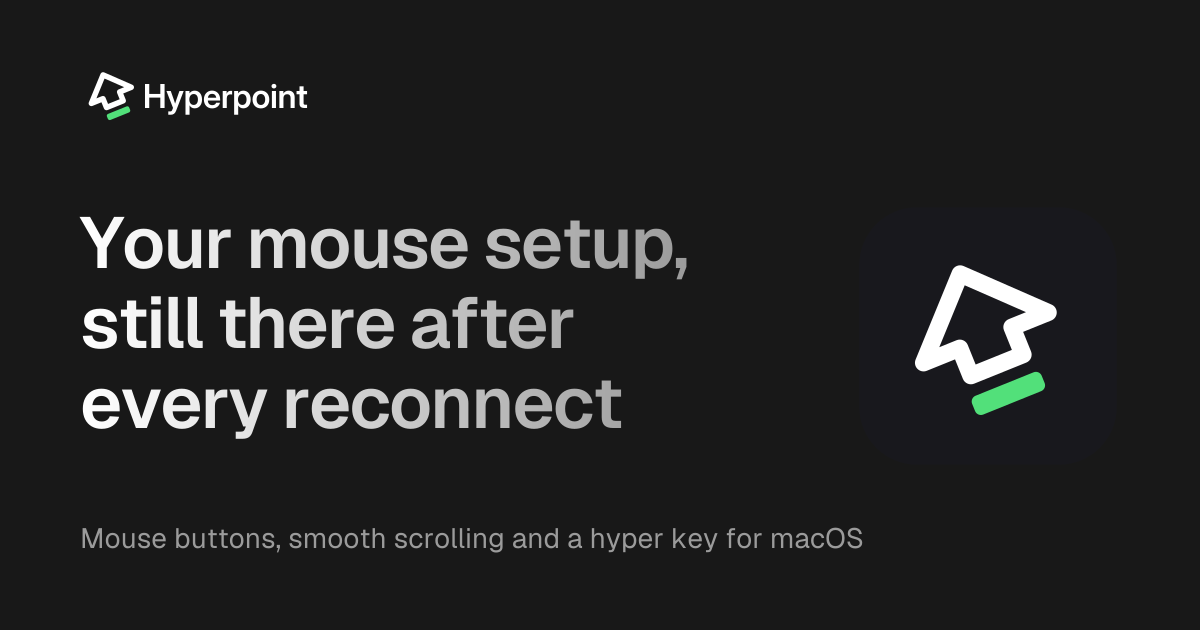
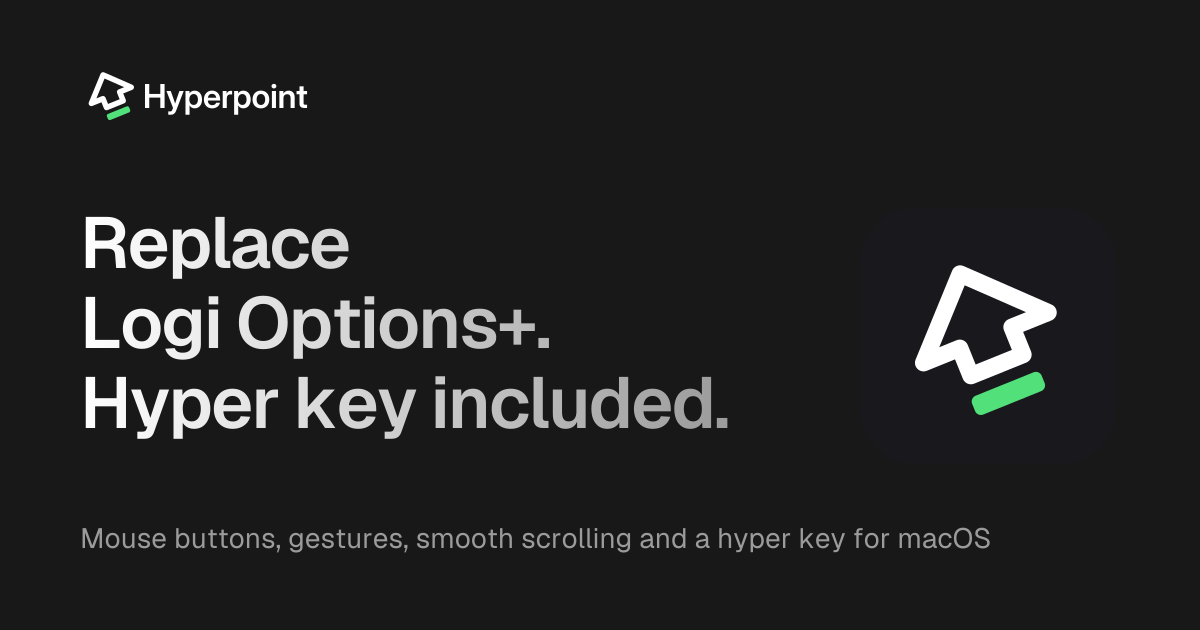
docs: pitch Hyperpoint as a Logi Options+ replacement with a hyper key
The README and landing page now say what the app does in general terms
instead of naming BetterMouse and Karabiner: one app for the mouse and
Caps Lock, so no second remapper fights over the same keys, with every
setting back on after a reconnect. The README drops the per-device
preset table, and both add a note on what Options+ still does and on
quitting it while Hyperpoint runs. The social image is redrawn with the
new headline.

Changed region(s): [[0.0617, 0.3317, 0.5858, 0.573], [0.0617, 0.6032, 0.6167, 0.6937], [0.2467, 0.8444, 0.8325, 0.8746]]

diff --git a/site/public/index.html b/site/public/index.html
@@ -3,18 +3,18 @@
 <head>
 <meta charset="utf-8">
 <meta name="viewport" content="width=device-width, initial-scale=1, viewport-fit=cover">
-<title>Hyperpoint · Mouse buttons, smooth scrolling and a hyper key for macOS</title>
-<meta name="description" content="Hyperpoint is a macOS menu bar app that remaps mouse buttons, makes the scroll wheel glide and turns Caps Lock into a hyper key. It puts every setting back when a device wakes or reconnects.">
+<title>Hyperpoint · The Logi Options+ alternative with a hyper key, for macOS</title>
+<meta name="description" content="Hyperpoint is a small macOS menu bar app that replaces Logi Options+ and adds a hyper key. Remap mouse buttons and gestures, make the scroll wheel glide and turn Caps Lock into ⌘⌃⌥⇧, with no second remapper to conflict with. Every setting goes back on when a device wakes or reconnects.">
 <link rel="canonical" href="https://hyperpoint.progremir.dev/">
 <meta property="og:type" content="website">
 <meta property="og:url" content="https://hyperpoint.progremir.dev/">
 <meta property="og:site_name" content="Hyperpoint">
-<meta property="og:title" content="Hyperpoint: your mouse setup, still there after every reconnect">
-<meta property="og:description" content="Mouse buttons, smooth scrolling and a hyper key for macOS, put back the moment a device wakes or reconnects.">
+<meta property="og:title" content="Hyperpoint: replace Logi Options+, hyper key included">
+<meta property="og:description" content="Mouse buttons, gestures, smooth scrolling and a hyper key in one macOS app, so nothing conflicts, put back the moment a device wakes or reconnects.">
 <meta property="og:image" content="https://hyperpoint.progremir.dev/og.png">
 <meta property="og:image:width" content="1200">
 <meta property="og:image:height" content="630">
-<meta property="og:image:alt" content="Hyperpoint logo with the line: your mouse setup, still there after every reconnect.">
+<meta property="og:image:alt" content="Hyperpoint logo with the line: replace Logi Options+, hyper key included.">
 <meta name="twitter:card" content="summary_large_image">
 <link rel="icon" href="favicon.ico" sizes="48x48">
 <link rel="icon" href="favicon.svg" type="image/svg+xml">
@@ -37,7 +37,7 @@
   "softwareVersion": "0.1.1",
   "fileSize": "1.2 MB",
   "downloadUrl": "https://hyperpoint.progremir.dev/download",
-  "description": "A macOS menu bar app that remaps mouse buttons, makes the scroll wheel glide and turns Caps Lock into a hyper key, and puts every setting back when a device reconnects."
+  "description": "A macOS menu bar app that replaces Logi Options+ and adds a hyper key: it remaps mouse buttons and gestures, makes the scroll wheel glide and turns Caps Lock into a hyper key, and puts every setting back when a device reconnects."
 }
 </script>
 <script type="application/ld+json">
@@ -63,15 +63,15 @@
     },
     {
       "@type": "Question",
-      "name": "Does it work with mice other than the MX Master 3?",
+      "name": "Which mice and keyboards does it work with?",
       "acceptedAnswer": {
         "@type": "Answer",
-        "text": "Yes. Every keyboard and mouse Hyperpoint sees shows up under Devices. Logitech mice that speak HID++ get their gesture and top buttons and the thumb wheel. Other mice get their plain buttons and any keys they send. Trackpads stay as macOS has them."
+        "text": "Any keyboard or mouse Hyperpoint sees shows up under Devices. Logitech mice that speak HID++ get their gesture button, extra buttons and thumb wheel too. Other mice get their plain buttons and any keys they send. Trackpads stay as macOS has them."
       }
     },
     {
       "@type": "Question",
-      "name": "My MX Master 3 forgets its buttons after sleep. Does this fix it?",
+      "name": "My Logitech mouse forgets its buttons after sleep. Does this fix it?",
       "acceptedAnswer": {
         "@type": "Answer",
         "text": "That is the problem Hyperpoint was built for. On every wake and reconnect it writes the full setup back to the mouse, and the menu shows when the mouse reconnected and that its settings were applied again."
@@ -79,10 +79,18 @@
     },
     {
       "@type": "Question",
-      "name": "Do I still need BetterMouse or Karabiner?",
+      "name": "Do I still need Logi Options+?",
       "acceptedAnswer": {
         "@type": "Answer",
-        "text": "Not for what Hyperpoint covers: button rules and gestures, smooth scrolling, hold to scroll, the hyper key and remapping keys a mouse sends. Karabiner can also rewrite any key on any keyboard with complex rules. If you rely on those, keep it for them."
+        "text": "Not for buttons, gestures, the thumb wheel or scrolling. Options+ also updates firmware, shows battery levels and runs Flow, which Hyperpoint does not. If you keep it for those, quit it while Hyperpoint runs: two apps setting up the same mouse overwrite each other."
+      }
+    },
+    {
+      "@type": "Question",
+      "name": "Do I still need a keyboard remapper?",
+      "acceptedAnswer": {
+        "@type": "Answer",
+        "text": "Not for the hyper key or for keys a mouse sends. Karabiner-Elements can also rewrite any key on any keyboard with complex rules. If you rely on those, keep it, and leave Caps Lock to one app."
       }
     },
     {
@@ -185,8 +193,8 @@
   <header class="hero" id="top">
     <div class="wrap hero-grid">
       <div class="hero-copy">
-        <h1 class="reveal">Your mouse setup,<br>still there after<br>every reconnect</h1>
-        <p class="sub reveal" style="--rd: 80ms">Hyperpoint is a macOS menu bar app that remaps mouse buttons, makes the scroll wheel glide and turns Caps Lock into a hyper key. Every setting goes back on the moment a device wakes or reconnects.</p>
+        <h1 class="reveal">Replace Logi&nbsp;Options+.<br>Hyper key included.</h1>
+        <p class="sub reveal" style="--rd: 80ms">Hyperpoint remaps your mouse's buttons, gestures and wheel and turns Caps Lock into ⌘⌃⌥⇧, in one small menu bar app. No second remapper to clash with, no account, and every setting goes back on the moment a device wakes or reconnects.</p>
         <a class="btn btn-primary btn-lg reveal" style="--rd: 160ms" href="/download">
           <svg class="icon" aria-hidden="true"><use href="#i-download-simple"/></svg>Download for Mac
         </a>
@@ -239,21 +247,21 @@
     <div class="wrap">
       <div class="head">
         <p class="eyebrow reveal">Why it exists</p>
-        <h2 class="h2 reveal" id="why-title">Two apps for one desk, and a mouse that forgets</h2>
+        <h2 class="h2 reveal" id="why-title">Two apps fighting over one desk, and a mouse that forgets</h2>
       </div>
       <div class="versus">
         <div class="vs-col before reveal">
           <h3><i class="led" aria-hidden="true"></i>Before</h3>
           <ul>
-            <li><svg class="icon" aria-hidden="true"><use href="#i-mouse-simple"/></svg><span>BetterMouse for the buttons and the wheel, Karabiner for the hyper key. Two apps, two settings, two sets of permissions.</span></li>
-            <li><svg class="icon" aria-hidden="true"><use href="#i-plugs-connected"/></svg><span>The MX Master 3 drops its button setup when it sleeps or reconnects, which can happen many times a day.</span></li>
+            <li><svg class="icon" aria-hidden="true"><use href="#i-mouse-simple"/></svg><span>Logi Options+ for the mouse, a remapper for Caps Lock. Both grab your input, each with its own settings and permissions, and they can step on each other's keys.</span></li>
+            <li><svg class="icon" aria-hidden="true"><use href="#i-plugs-connected"/></svg><span>A mouse's custom buttons last only until it sleeps or reconnects. Miss the reconnect, and they go back to doing nothing.</span></li>
             <li><svg class="icon" aria-hidden="true"><use href="#i-file-code"/></svg><span>A typo in a settings file can quietly turn a rule off, and nothing tells you.</span></li>
           </ul>
         </div>
         <div class="vs-col after reveal" style="--rd: 100ms">
           <h3><i class="led" aria-hidden="true"></i>With Hyperpoint</h3>
           <ul>
-            <li><svg class="icon" aria-hidden="true"><use href="#i-check"/></svg><span>One menu bar app and one file, <code>~/.config/hyperpoint/config.json</code>, for every mouse and keyboard you use.</span></li>
+            <li><svg class="icon" aria-hidden="true"><use href="#i-check"/></svg><span>One menu bar app and one file, <code>~/.config/hyperpoint/config.json</code>, for every mouse and keyboard you use. Nothing else to conflict with.</span></li>
             <li><svg class="icon" aria-hidden="true"><use href="#i-check"/></svg><span>On every connect Hyperpoint writes the whole setup back to the device, and the menu shows when it did.</span></li>
             <li><svg class="icon" aria-hidden="true"><use href="#i-check"/></svg><span>A file with a mistake is rejected whole, with the path of the error, and the last good settings keep running.</span></li>
           </ul>
@@ -275,7 +283,7 @@
       <div class="head">
         <p class="eyebrow reveal">What it does</p>
         <h2 class="h2 reveal" id="features-title">Buttons, Caps Lock and the wheel, in one app</h2>
-        <p class="lead reveal">The mouse and Caps Lock setup you had in BetterMouse and Karabiner, made by pressing buttons instead of looking up key codes.</p>
+        <p class="lead reveal">What used to take Logi Options+ and a keyboard remapper, in one app, set up by pressing buttons instead of looking up key codes.</p>
       </div>
 
       <div class="bento" data-intro>
@@ -300,7 +308,7 @@
           </div>
           <div class="copy">
             <h3 class="up" style="--i: 7">Settings that survive sleep</h3>
-            <p class="up" style="--i: 8">When a mouse wakes or reconnects, Hyperpoint writes every setting back: the gesture and top buttons, the thumb wheel, smooth scrolling and the hyper key. The menu shows when it last did.</p>
+            <p class="up" style="--i: 8">When a mouse wakes or reconnects, Hyperpoint writes every setting back: its buttons and gestures, the thumb wheel, smooth scrolling and the hyper key. The menu shows when it last did.</p>
           </div>
         </article>
 
@@ -395,7 +403,7 @@
         <li class="reveal">
           <svg class="icon" aria-hidden="true"><use href="#i-hand-grabbing"/></svg>
           <h3>Hold to scroll</h3>
-          <p>Hold a button and move the mouse to scroll, with momentum. The MX Master 3 preset puts it on the right button, and a quick press still clicks.</p>
+          <p>Hold a button and move the mouse to scroll, with momentum. Put it on the right button, and a quick press still clicks.</p>
         </li>
         <li class="reveal" style="--rd: 100ms">
           <svg class="icon" aria-hidden="true"><use href="#i-keyboard"/></svg>
@@ -444,7 +452,7 @@
       <div class="head">
         <p class="eyebrow reveal">Proof</p>
         <h2 class="h2 reveal" id="proof-title">One Mac, four devices, one file</h2>
-        <p class="lead reveal">This is the config from the Mac Hyperpoint was built on. Two mice and two keyboards, each set up from a preset, replacing a BetterMouse and Karabiner setup. The settings window edits this file and nothing else, so every setting can be read, diffed and backed up.</p>
+        <p class="lead reveal">This is the config from the Mac Hyperpoint was built on. Two mice and two keyboards, each set up from a preset, replacing a separate mouse app and keyboard remapper. The settings window edits this file and nothing else, so every setting can be read, diffed and backed up.</p>
       </div>
       <figure class="code reveal">
         <figcaption class="code-bar"><code>~/.config/hyperpoint/config.json</code><span>Excerpt, scrolling settings left out</span></figcaption>
@@ -507,16 +515,20 @@
           <div class="a"><p>The download is 1.2 MB, and the app takes 3.3 MB once installed. It is one native Apple silicon binary with no bundled frameworks or runtime.</p></div>
         </details>
         <details class="reveal">
-          <summary>Does it work with mice other than the MX Master 3?<svg class="icon" aria-hidden="true"><use href="#i-plus"/></svg></summary>
-          <div class="a"><p>Yes. Every keyboard and mouse Hyperpoint sees shows up under Devices. Logitech mice that speak HID++ get their gesture and top buttons and the thumb wheel. Other mice get their plain buttons and any keys they send. Trackpads stay as macOS has them.</p></div>
+          <summary>Which mice and keyboards does it work with?<svg class="icon" aria-hidden="true"><use href="#i-plus"/></svg></summary>
+          <div class="a"><p>Any keyboard or mouse Hyperpoint sees shows up under Devices. Logitech mice that speak HID++ get their gesture button, extra buttons and thumb wheel too. Other mice get their plain buttons and any keys they send. Trackpads stay as macOS has them.</p></div>
         </details>
         <details class="reveal">
-          <summary>My MX Master 3 forgets its buttons after sleep. Does this fix it?<svg class="icon" aria-hidden="true"><use href="#i-plus"/></svg></summary>
+          <summary>My Logitech mouse forgets its buttons after sleep. Does this fix it?<svg class="icon" aria-hidden="true"><use href="#i-plus"/></svg></summary>
           <div class="a"><p>That is the problem Hyperpoint was built for. On every wake and reconnect it writes the full setup back to the mouse, and the menu shows when the mouse reconnected and that its settings were applied again.</p></div>
         </details>
         <details class="reveal">
-          <summary>Do I still need BetterMouse or Karabiner?<svg class="icon" aria-hidden="true"><use href="#i-plus"/></svg></summary>
-          <div class="a"><p>Not for what Hyperpoint covers: button rules and gestures, smooth scrolling, hold to scroll, the hyper key and remapping keys a mouse sends. Karabiner can also rewrite any key on any keyboard with complex rules. If you rely on those, keep it for them.</p></div>
+          <summary>Do I still need Logi Options+?<svg class="icon" aria-hidden="true"><use href="#i-plus"/></svg></summary>
+          <div class="a"><p>Not for buttons, gestures, the thumb wheel or scrolling. Options+ also updates firmware, shows battery levels and runs Flow, which Hyperpoint does not. If you keep it for those, quit it while Hyperpoint runs: two apps setting up the same mouse overwrite each other.</p></div>
+        </details>
+        <details class="reveal">
+          <summary>Do I still need a keyboard remapper?<svg class="icon" aria-hidden="true"><use href="#i-plus"/></svg></summary>
+          <div class="a"><p>Not for the hyper key or for keys a mouse sends. Karabiner-Elements can also rewrite any key on any keyboard with complex rules. If you rely on those, keep it, and leave Caps Lock to one app.</p></div>
         </details>
         <details class="reveal">
           <summary>Can an AI agent change my settings?<svg class="icon" aria-hidden="true"><use href="#i-plus"/></svg></summary>
@@ -588,7 +600,7 @@
         </ul>
       </nav>
     </div>
-    <small>© 2026 Hyperpoint. BetterMouse, Karabiner, Logitech, MX Master, Razer and Naga are trademarks of their owners.</small>
+    <small>© 2026 Hyperpoint. Logitech, Logi Options+, MX Master, Karabiner, Razer and Naga are trademarks of their owners.</small>
   </div>
 </footer>
 

diff --git a/site/public/404.html b/site/public/404.html
@@ -46,7 +46,7 @@
         </ul>
       </nav>
     </div>
-    <small>© 2026 Hyperpoint. BetterMouse, Karabiner, Logitech, MX Master, Razer and Naga are trademarks of their owners.</small>
+    <small>© 2026 Hyperpoint. Logitech, Logi Options+, MX Master, Karabiner, Razer and Naga are trademarks of their owners.</small>
   </div>
 </footer>
 </body>

diff --git a/site/public/privacy.html b/site/public/privacy.html
@@ -48,7 +48,7 @@
         </ul>
       </nav>
     </div>
-    <small>© 2026 Hyperpoint. BetterMouse, Karabiner, Logitech, MX Master, Razer and Naga are trademarks of their owners.</small>
+    <small>© 2026 Hyperpoint. Logitech, Logi Options+, MX Master, Karabiner, Razer and Naga are trademarks of their owners.</small>
   </div>
 </footer>
 </body>

diff --git a/site/og.py b/site/og.py
@@ -55,11 +55,11 @@ def main():
 
     heading = ""
     widest = 0.0
-    for i, line in enumerate(["Your mouse setup,", "still there after", "every reconnect"]):
+    for i, line in enumerate(["Replace", "Logi Options+.", "Hyper key included."]):
         d, width = bold.path(line, 80, 268 + i * 80, 72, tracking=-0.03)
         heading += d
         widest = max(widest, width)
-    sub, _ = regular.path("Mouse buttons, smooth scrolling and a hyper key for macOS", 80, 548, 28)
+    sub, _ = regular.path("Mouse buttons, gestures, smooth scrolling and a hyper key for macOS", 80, 548, 28)
 
     lockup = inner((LOGO / "hyperpoint-horizontal-color-on-dark.svg").read_text())
     icon = inner((LOGO / "hyperpoint-app-icon.svg").read_text())

diff --git a/README.md b/README.md
@@ -5,32 +5,31 @@
   </picture>
 </p>
 
-<p align="center">Your mouse buttons, scroll wheel and Caps Lock, working the way you want and staying that way.</p>
+<p align="center">Replace Logi Options+. Hyper key included.</p>
 
-Hyperpoint is a macOS menu-bar app that does the job of BetterMouse and Karabiner-Elements in one place. Give your
-mouse's buttons and gestures new actions, make the scroll wheel glide like a trackpad, and turn Caps Lock into a hyper
-key for app shortcuts.
-
-Setting it up takes a click and a press. A mouse or keyboard you plug in shows up in Settings, where you set it up from
-a preset for its model, from another device's settings, or empty. Then click Add Rule and press the button you want to
-change. Your setup survives sleep and reconnects, even on mice that forget their settings, like the MX Master 3.
+Hyperpoint is a small macOS menu-bar app that remaps mouse buttons, gestures and the scroll wheel, and turns Caps Lock
+into a hyper key. It's one app instead of a mouse app plus a keyboard remapper, so nothing fights over your keys, and
+it puts your setup back every time a device wakes or reconnects.
 
 ## Features
 
-- **Rules by pressing.** Click Add Rule and press a button, a key or the thumb wheel on the mouse, and the rule is made
-  for that control. Click a rule's button to change it the same way.
-- **Hyper key.** Caps Lock becomes ⌘⌃⌥⇧ while held, per keyboard. One switch, on the Hyper Key tab or in the menu
-  bar, turns it off on every keyboard and back on again.
-- **MX Master buttons and gestures.** The gesture and top buttons are diverted over HID++ and mapped to Mission
-  Control, App Exposé, Space switching or any shortcut. The thumb wheel can be reversed.
+- **A profile per device.** Each mouse and keyboard keeps its own rules and scrolling. Start one from a preset for its
+  model, from another device's profile, or empty.
+- **Rules by pressing.** Click Add Rule and press a button, a key or a thumb wheel, and the rule is made for that
+  control. Click a rule's button to change it the same way.
+- **Hyper key.** Caps Lock becomes ⌘⌃⌥⇧ while held, per keyboard, so it can be hyper on your desk keyboard and stay
+  Caps Lock on your laptop. One switch, on the Hyper Key tab or in the menu bar, turns it off on every keyboard and
+  back on again.
+- **Logitech buttons and gestures.** Buttons macOS never sees, like a gesture button, are taken over HID++. Click one,
+  or hold it and move, to open Mission Control or App Exposé, switch Spaces or send any shortcut. A thumb wheel can be
+  reversed.
 - **Smooth scrolling.** Each wheel step glides as an eased pulse sized by a speed curve you edit as a graph.
-- **Hold to scroll.** Hold a button and move the mouse to scroll, with momentum. The MX Master 3 preset gives it to the
-  right button, and any button can be given the rule.
+- **Hold to scroll.** Hold any button and move the mouse to scroll, with momentum.
 - **Hold a button, hold keys.** Any mouse button can hold a modifier or a shortcut down for as long as you hold it.
   Hold Back as ⌘ and click to ⌘-click, or hold a button as Right Option for push-to-talk dictation. Pick **Hold** under
   **When** on the Buttons tab. **Keyboard Shortcut…** records a combination, or one modifier pressed alone.
-- **Other mice.** Keys sent by a mouse's keyboard interface (like the 2.4G mouse's Escape and Return) can become
-  modifiers or shortcuts. A modifier is mapped at the HID layer, so it holds in password fields too.
+- **Mice that send keys.** Some mice send keystrokes from their extra buttons. Those keys can become modifiers or
+  shortcuts for that mouse alone. A modifier is mapped at the HID layer, so it holds in password fields too.
 - **Settings window and menu.** Every device Hyperpoint has seen, its rules and the scroll curve, with new devices
   to set up or ignore. The menu shows each device's state, re-applies on demand and pauses everything.
 
@@ -58,31 +57,23 @@ Accessibility and Input Monitoring grants to the signature, and an ad-hoc one wo
 On first launch, grant Hyperpoint **Accessibility** and **Input Monitoring** in System Settings › Privacy & Security.
 Until then the menu shows *Needs attention* and nothing is applied.
 
-## Set up your devices
+## Set up a device
 
-A fresh install has no devices in its config and changes nothing, Caps Lock included. Open Settings, and the
-**Devices** tab lists every connected keyboard and mouse as new. Click **Set Up** to give a device a profile, or
-**Ignore** to leave it as macOS has it and stop listing it.
+A fresh install changes nothing, Caps Lock included. Open Settings, and the **Devices** tab lists every connected
+mouse and keyboard. **Set Up** gives a device a profile, and its menu offers a preset for that model when there is one,
+a copy of another device's profile, or an empty one. **Ignore** leaves the device as macOS has it. Trackpads are never
+listed or changed.
 
-The button applies the best choice for that device, and its menu holds the others:
+A preset only fills in the first version of a profile. After that the profile is yours, and a newer preset never
+changes it. To start over from a preset, click **Forget…** and set the device up again. If Hyperpoint takes a mouse
+for a keyboard, as it can when the mouse's buttons send keys, switch it with the menu next to the profile's name.
 
-| Choice | Offered for | What it sets |
-|---|---|---|
-| MX Master 3 preset | The MX Master 3 (`0x046D:0xB023`) | The gesture button opens Mission Control, App Exposé and the Spaces left and right. The top button sends ⇧⌘4. The thumb wheel is reversed, the wheel scrolls smoothly, and holding the right button scrolls. |
-| 2.4G mouse preset | The 2.4G mouse (`0x1EA7:0x0002`) | Lists it with the mice. Escape becomes Right Option while held, and Return sends ⌥⇧S. |
-| Hyper key | Any keyboard | The hyper key. |
-| Nothing yet | Any mouse | No rules. Add them on the **Buttons** tab. |
-| Same as *a profile* | A device of the same kind as that profile | A copy of that profile's rules, gestures, scrolling and hyper key. |
+### Coming from Logi Options+ or a keyboard remapper
 
-Next to each profile's name, a menu says whether the device is a **Mouse** or a **Keyboard**. A mouse gets the
-**Buttons** and **Scrolling** tabs, and a keyboard can have the hyper key. Hyperpoint guesses from the device until you
-choose. A mouse that sends keys from an interface of its own, like the 2.4G mouse, looks like a keyboard to it.
-
-A preset only starts the profile. After Set Up the config file holds every setting, and a later change to a preset does
-not touch a saved profile. To start a device again from a preset, click **Forget…** and set it up again.
-
-Hyperpoint lists keyboards and mice, Logitech HID++ mice included. Trackpads, the built-in one too, stay as macOS has
-them and are not listed.
+Hyperpoint covers the buttons, gestures, thumb wheel and scrolling. It leaves out firmware updates, battery levels,
+pointer speed and Flow, so keep Logi Options+ if you need those, but quit it while Hyperpoint runs: two apps setting up
+the same mouse overwrite each other. The same goes for Caps Lock. If Karabiner-Elements or another remapper also maps
+it, leave it to one app.
 
 ## Configuration
 
@@ -101,9 +92,9 @@ git clone --depth 1 https://github.com/progremir/hyperpoint.git /tmp/hyperpoint
 mkdir -p ~/.claude/skills && cp -r /tmp/hyperpoint/skills/hyperpoint-config ~/.claude/skills/
 ```
 
-Then ask in plain words, such as "make the gesture button on my MX Master open App Exposé". The checker works on its
-own too: `python3 skills/hyperpoint-config/scripts/check_config.py` prints the first problem in your config with its
-path, or the devices it sets up.
+Then ask in plain words, such as "make my mouse's back button hold ⌘". The checker works on its own too:
+`python3 skills/hyperpoint-config/scripts/check_config.py` prints the first problem in your config with its path, or
+the devices it sets up.
 
 ## Development
 

diff --git a/site/README.md b/site/README.md
@@ -54,17 +54,19 @@ npx cf r2 objects put latest --bucket-name hyperpoint-releases --body Hyperpoint
 
 ## The brief
 
-**One offer, one audience, one action.** Hyperpoint for Mac users who set up a mouse and Caps Lock with BetterMouse
-and Karabiner, often with an MX Master 3 that forgets its buttons on reconnect. The one action is *Download for Mac*.
+**One offer, one audience, one action.** Hyperpoint for Mac users who run Logi Options+ for the mouse and a separate
+remapper for Caps Lock, and want one app that nothing conflicts with and that keeps the setup through every reconnect.
+The one action is *Download for Mac*.
 
 **Layout: A, classic hero plus sections.** The product reads at a glance from its menu bar menu, so the hero shows
 that menu with real device rows and the reconnect note.
 
-**Hero.** *Your mouse setup, still there after every reconnect.* The subheadline says what it is and does, the CTA
-downloads, and the proof line says it is notarized, its version and what it runs on.
+**Hero.** *Replace Logi Options+. Hyper key included.* The subheadline says what it does and why one app beats two:
+nothing to clash with, no account, and every setting back on after a reconnect. The CTA downloads, and the proof line
+says it is notarized, its size and what it runs on.
 
 **Order.** Hero, problem to solution (before and after), tagline reveal, four benefit cards with stories, three
-smaller features, how it works in three steps, proof (the owner's real config and six facts), FAQ (12 questions with
+smaller features, how it works in three steps, proof (the owner's real config and six facts), FAQ (13 questions with
 FAQ schema), final CTA with risk reversal, footer.
 
 **Benefits.** Settings that survive sleep. A hyper key on Caps Lock. A wheel that glides. Change a button by pressing
